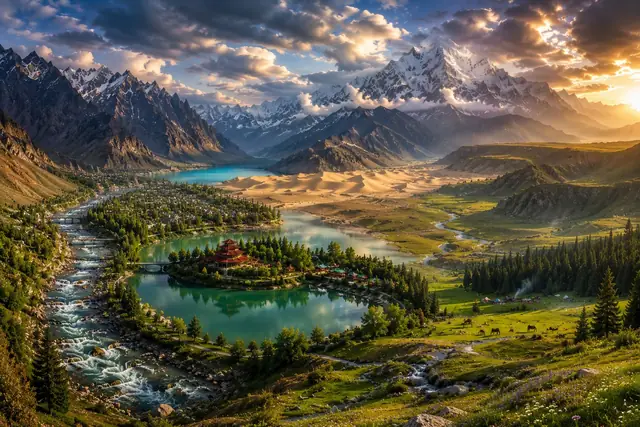
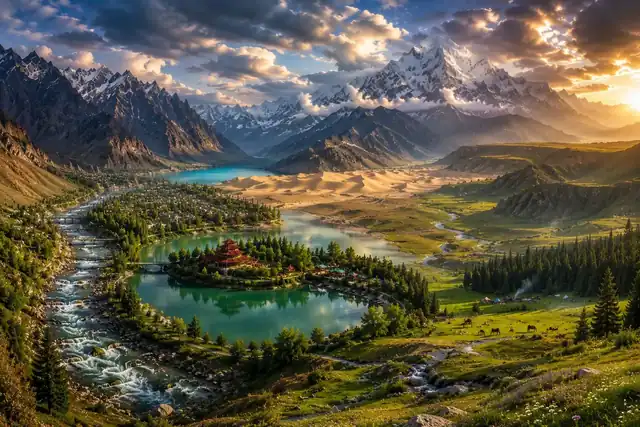
Undo the performance regression Analytics caused
Lighthouse went from 92 to 64 when Google Analytics went in. LCP 12.8s,
FCP 3.4s — but TBT only 60ms and CLS 0.038, so nothing was blocking the
main thread. That shape points at bandwidth, not JavaScript execution:
the largest element simply arrived very late.

gtag.js is about 326 KB of third-party script, and afterInteractive put
it in the running as soon as the page was interactive — competing with
the hero image, which is the LCP element, on a throttled mobile
connection. It now loads with lazyOnload, after the load event. The cost
is losing visitors who leave inside a second or two; the gain is the
hero arriving on time. Nothing else changes: gtag() only pushes to
dataLayer, so page views recorded before the script lands queue up and
replay in order — which is why the tracker was written to push directly.

The hero itself was heavier than it needed to be. It sits under a dark
green overlay with white text on top, so compression artefacts that
would show on a bare photograph are invisible through it. Re-encoded at
a quality where the difference cannot be seen side by side:
1024 down from 127K to 94K, 640 from 55K to 42K, 1536 from 245K to 194K.

The header wordmark was a 26 KB PNG carrying 24-bit colour for artwork
that uses a handful of flat colours plus anti-aliasing. As a palette PNG
it is 3 KB, identical at 2x zoom. Left `unoptimized` alone in logo.tsx —
it is set deliberately and flipping it changes how every logo on the
site is served.
[…]

diff --git a/src/components/pwa/install-prompt.tsx b/src/components/pwa/install-prompt.tsx
@@ -37,8 +37,20 @@ export const OPEN_INSTALL_EVENT = "rego-open-install";
 
 const DISMISS_KEY = "rego-install-dismissed";
 const SEEN_KEY = "rego-install-seen";
-/** Let the page paint and settle before interrupting. */
-const SHOW_AFTER_MS = 2500;
+/**
+ * How long after the page has finished loading before the card appears.
+ *
+ * It used to be 2.5s from mount, which landed in the middle of the page
+ * still rendering. A full-screen card with a blurred backdrop arriving then
+ * covers the hero — the largest element on the page — so it became the
+ * largest contentful paint, and the browser had to re-composite the whole
+ * viewport at the worst possible moment.
+ *
+ * Now it waits for the load event and then for the browser to be idle, so it
+ * cannot interfere with the page arriving. It is also simply better manners:
+ * nobody wants a popup before they have seen the page.
+ */
+const SHOW_AFTER_MS = 3000;
 
 const HIDE_ON = [
   "/signin", "/signup", "/reset-password", "/verify", "/auth",
@@ -143,16 +155,38 @@ export function InstallPrompt() {
     window.addEventListener(OPEN_INSTALL_EVENT, onAsk);
 
     /* The unprompted appearance is the part that has to stay polite. */
-    const auto =
-      HIDE_ON.some((p) => window.location.pathname.startsWith(p)) || suppressed()
-        ? 0
-        : window.setTimeout(() => {
-            setOpen(true);
-            try { sessionStorage.setItem(SEEN_KEY, "1"); } catch { /* ignore */ }
-          }, SHOW_AFTER_MS);
+    let auto = 0;
+    let idle = 0;
+    const muted =
+      HIDE_ON.some((p) => window.location.pathname.startsWith(p)) || suppressed();
+
+    const schedule = () => {
+      auto = window.setTimeout(() => {
+        /* One last wait for a quiet moment, so the card never lands on top of
+           work the browser is still doing. */
+        const show = () => {
+          setOpen(true);
+          try { sessionStorage.setItem(SEEN_KEY, "1"); } catch { /* ignore */ }
+        };
+        const ric = (window as unknown as {
+          requestIdleCallback?: (cb: () => void, o?: { timeout: number }) => number;
+        }).requestIdleCallback;
+        if (ric) idle = ric(show, { timeout: 2000 });
+        else show();
+      }, SHOW_AFTER_MS);
+    };
+
+    if (!muted) {
+      if (document.readyState === "complete") schedule();
+      else window.addEventListener("load", schedule, { once: true });
+    }
 
     return () => {
       if (auto) window.clearTimeout(auto);
+      if (idle) (window as unknown as {
+        cancelIdleCallback?: (h: number) => void;
+      }).cancelIdleCallback?.(idle);
+      window.removeEventListener("load", schedule);
       window.removeEventListener("beforeinstallprompt", onPrompt);
       window.removeEventListener("rego-installable", onCaptured);
       window.removeEventListener("appinstalled", onInstalled);

diff --git a/src/components/analytics/google-analytics.tsx b/src/components/analytics/google-analytics.tsx
@@ -84,11 +84,21 @@ export function GoogleAnalytics() {
 
   return (
     <>
+      {/* lazyOnload, not afterInteractive. gtag.js is ~326 KB of third-party
+          JavaScript; on a throttled mobile connection it competes with the
+          hero image for bandwidth, and the hero image is the LCP element.
+          Loading it with afterInteractive cost about 28 Lighthouse points.
+          Waiting for the load event costs the handful of visitors who leave
+          within a second or two — a trade worth making.
+
+          Nothing is lost from the delay: gtag() only ever pushes to
+          dataLayer, so the page views recorded below queue up and replay in
+          order the moment the script arrives. */}
       <Script
         src={`https://www.googletagmanager.com/gtag/js?id=${GA_ID}`}
-        strategy="afterInteractive"
+        strategy="lazyOnload"
       />
-      <Script id="ga-init" strategy="afterInteractive">
+      <Script id="ga-init" strategy="lazyOnload">
         {`
           window.dataLayer = window.dataLayer || [];
           function gtag(){dataLayer.push(arguments);}
